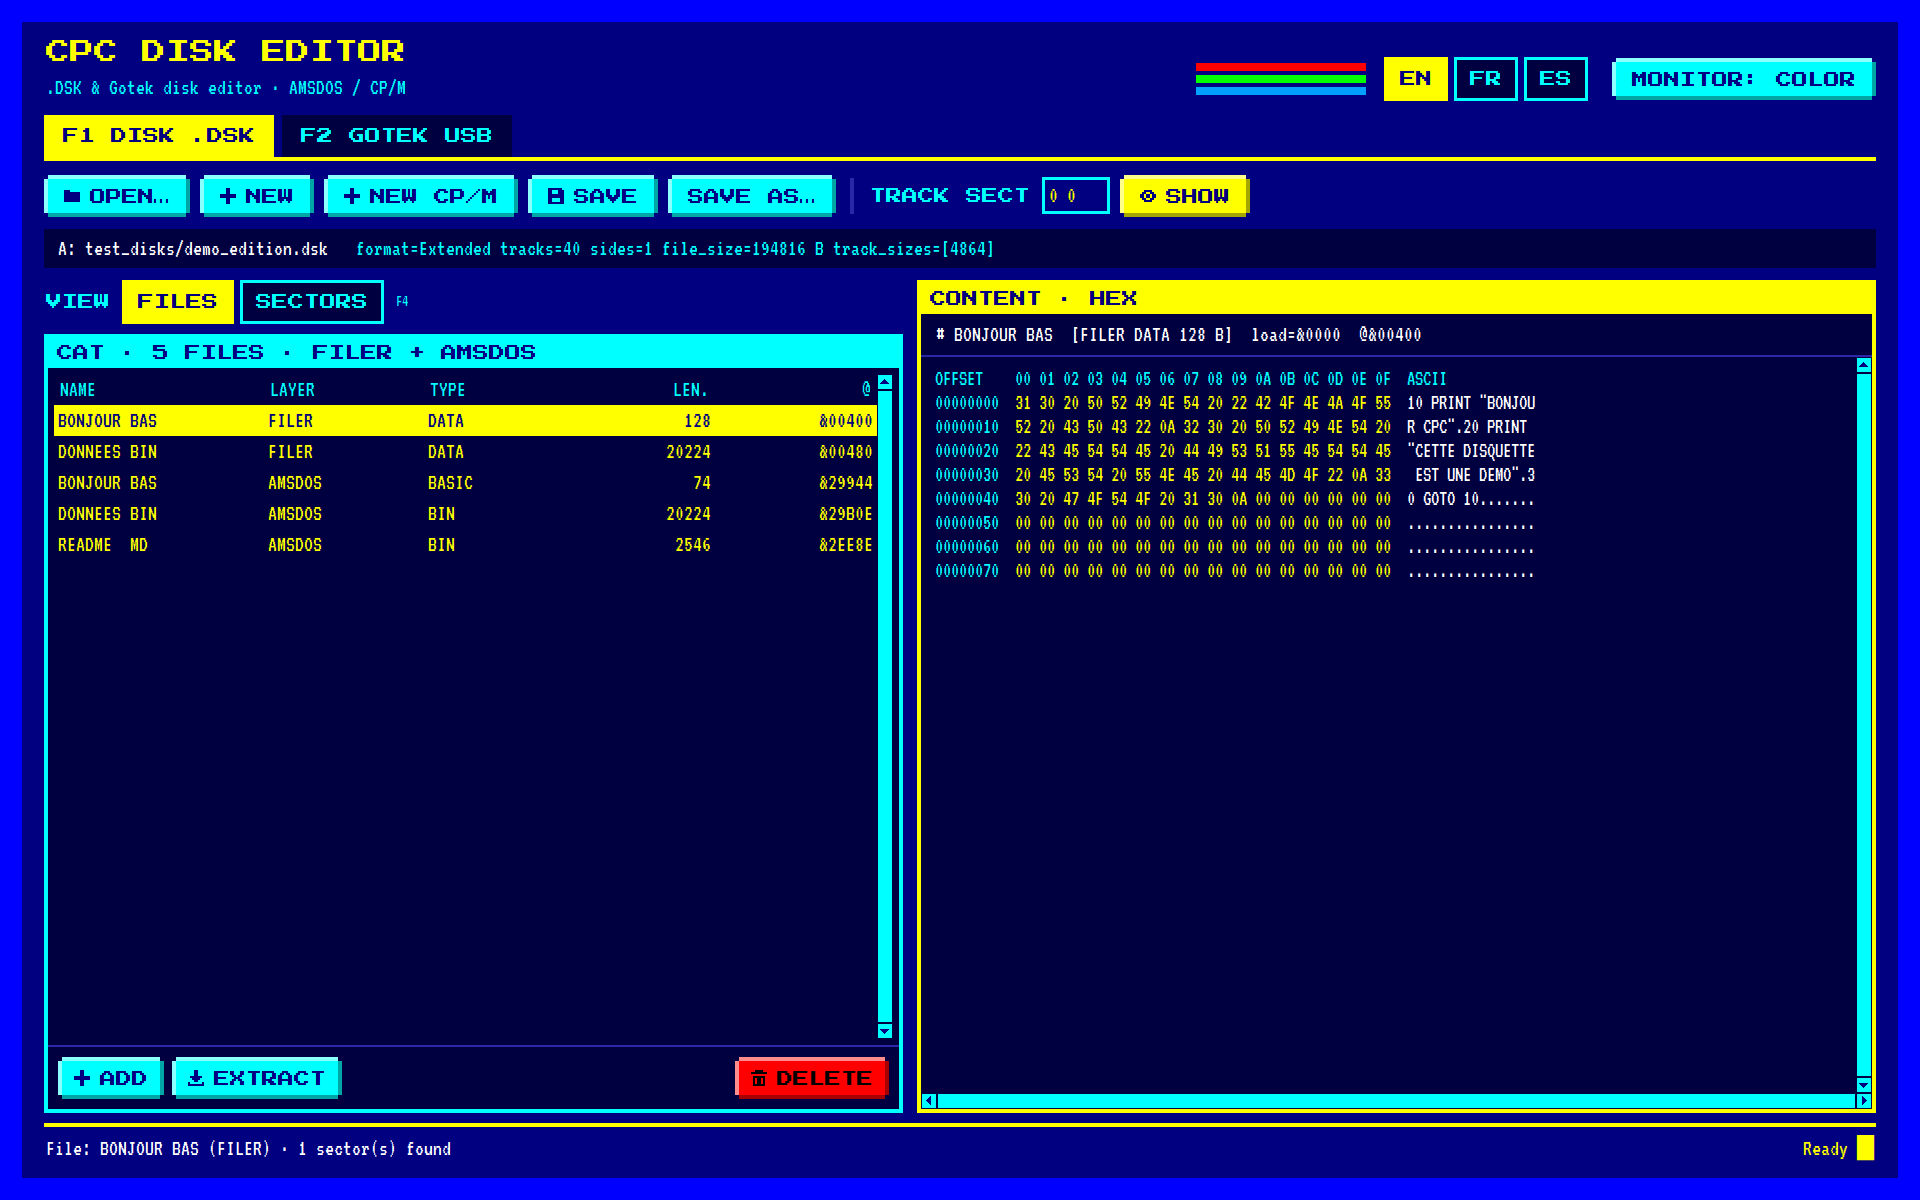
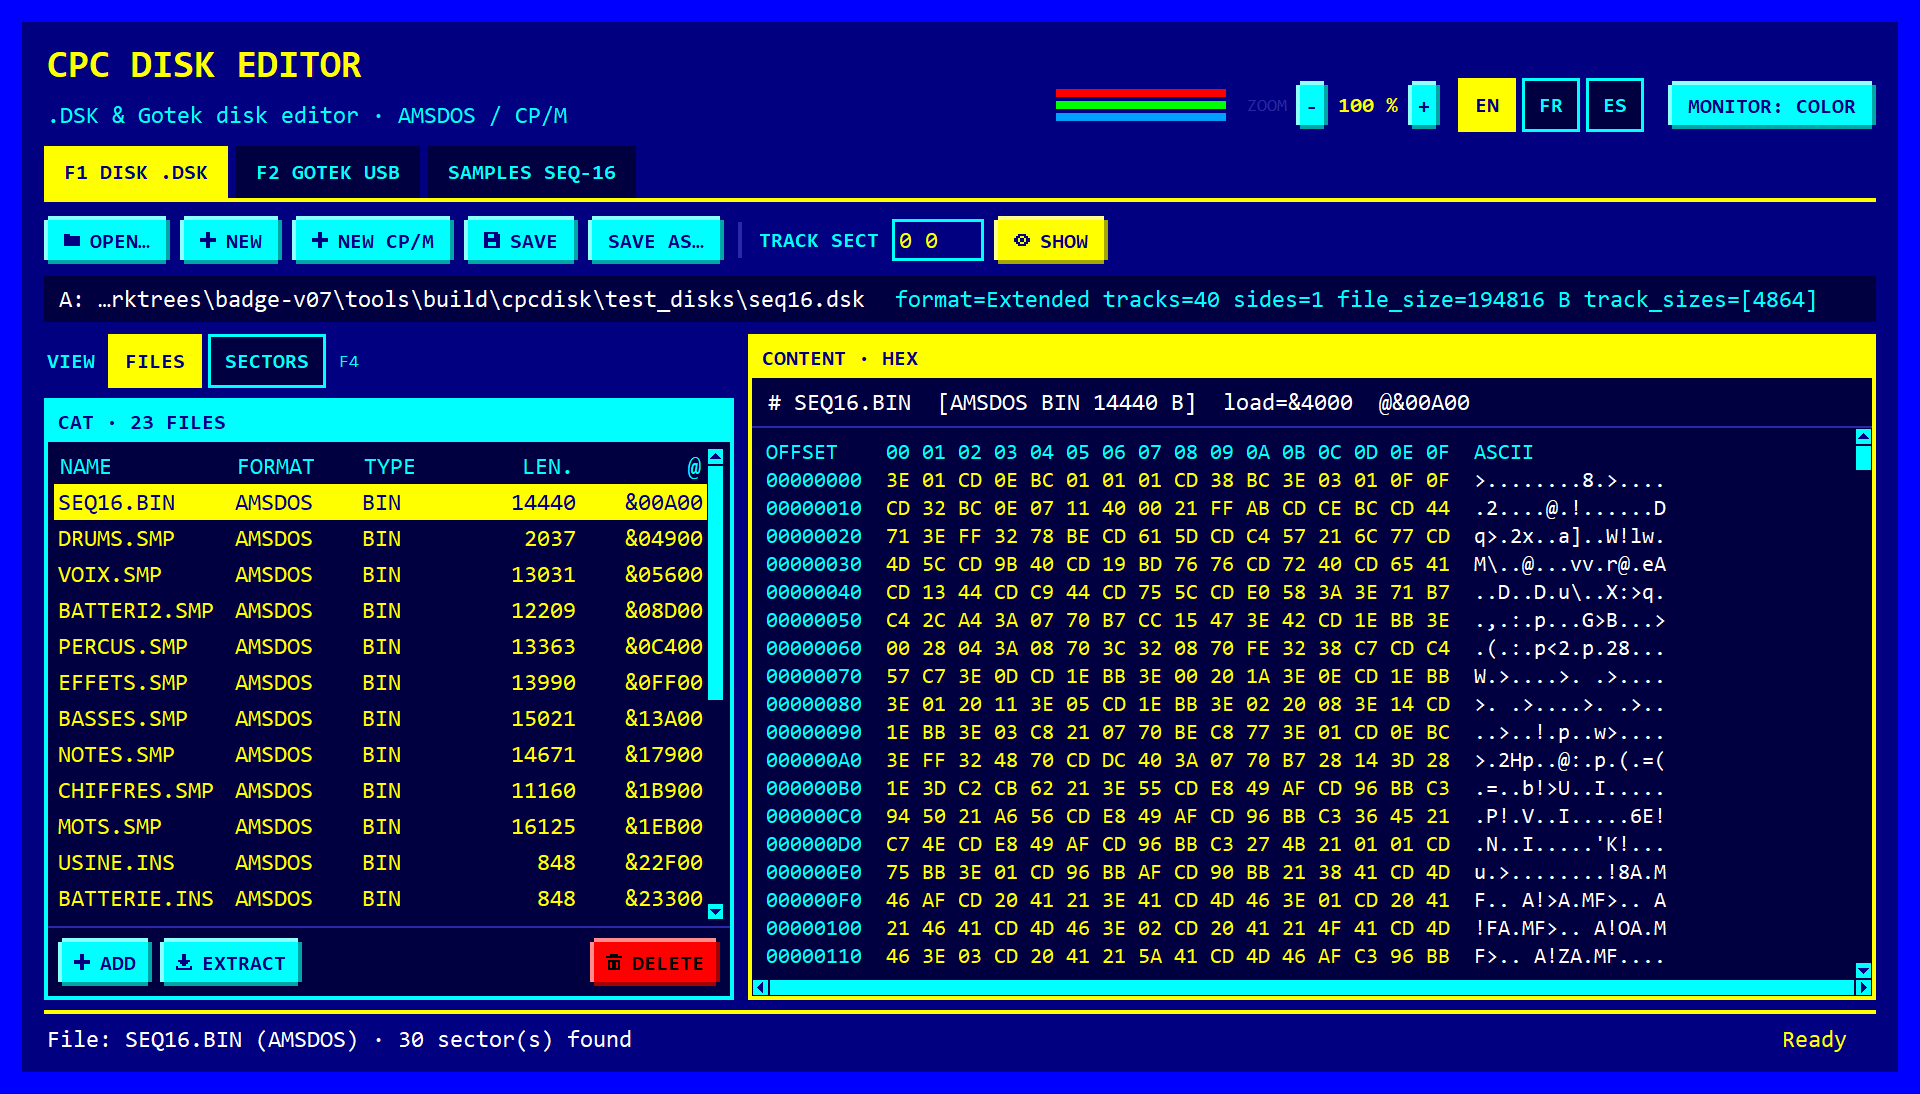
Captures d'écran refaites (fr, en, es) ; libellés et colonnes corrigés
- docs/ : onglets Disquette, Gotek (avec le bloc HxC) et Samples SEQ-16,
  dans les trois langues ; l'onglet Samples a sa capture dans les README.
- Catalogue : « CAT · n FICHIERS » sans l'ancien « FILER + AMSDOS », la
  colonne « COUCHE » devient « FORMAT ».
- Dossier HxC : le libellé montre la fin du chemin (…\CPC-DISK\HXC) au
  lieu d'un début tronqué.
- Onglet Samples : largeurs des colonnes mesurées sur la police (elles
  suivent le zoom et le DPI) ; « 10 000 » et « 12 500 » n'étaient plus
  coupés.

diff --git a/cpc_dsk/i18n.py b/cpc_dsk/i18n.py
@@ -92,10 +92,10 @@ TR: Dict[str, Dict[str, str]] = {
         "view_files": "Files",
         "view_map": "Sectors",
         "panel_map": "Sector map",
-        "panel_cat0": "CAT · FILER + AMSDOS",
-        "panel_cat_n": "CAT · {n} FILE{s} · FILER + AMSDOS",
+        "panel_cat0": "CAT",
+        "panel_cat_n": "CAT · {n} FILE{s}",
         "col_name": "NAME",
-        "col_layer": "LAYER",
+        "col_layer": "FORMAT",
         "col_type": "TYPE",
         "col_len": "LEN.",
         "btn_add": "Add",
@@ -487,10 +487,10 @@ TR: Dict[str, Dict[str, str]] = {
         "view_files": "Fichiers",
         "view_map": "Secteurs",
         "panel_map": "Carte des secteurs",
-        "panel_cat0": "CAT · FILER + AMSDOS",
-        "panel_cat_n": "CAT · {n} FICHIER{s} · FILER + AMSDOS",
+        "panel_cat0": "CAT",
+        "panel_cat_n": "CAT · {n} FICHIER{s}",
         "col_name": "NOM",
-        "col_layer": "COUCHE",
+        "col_layer": "FORMAT",
         "col_type": "TYPE",
         "col_len": "LONG.",
         "btn_add": "Ajouter",
@@ -886,10 +886,10 @@ TR: Dict[str, Dict[str, str]] = {
         "view_files": "Archivos",
         "view_map": "Sectores",
         "panel_map": "Mapa de sectores",
-        "panel_cat0": "CAT · FILER + AMSDOS",
-        "panel_cat_n": "CAT · {n} ARCHIVO{s} · FILER + AMSDOS",
+        "panel_cat0": "CAT",
+        "panel_cat_n": "CAT · {n} ARCHIVO{s}",
         "col_name": "NOMBRE",
-        "col_layer": "CAPA",
+        "col_layer": "FORMATO",
         "col_type": "TIPO",
         "col_len": "LEN.",
         "btn_add": "Añadir",

diff --git a/cpc_dsk/seq16/smp_gui.py b/cpc_dsk/seq16/smp_gui.py
@@ -882,10 +882,20 @@ class SmpApp:
                     command=self.open_smp).pack(side="left", padx=(8, 0))
 
         # La liste
-        cols = (("n", L("smp_col_n"), 34, "e"), ("nom", L("smp_col_name"), 78, "w"),
-                ("duree", L("smp_col_dur"), 72, "e"), ("hz", L("smp_col_hz"), 70, "e"),
-                ("nop", L("smp_col_nop"), 44, "e"), ("oct", L("smp_col_bytes"), 70, "e"),
-                ("src", L("smp_col_src"), 120, "w"))
+        # Largeurs mesurées sur le contenu le plus large de chaque colonne
+        # (et son titre) : elles suivent la police, donc le zoom et le DPI.
+        widest = {"n": "16", "nom": "MMMMMM", "duree": "10,00", "hz": "12 500",
+                  "nop": "999", "oct": "16 320", "src": "(banque .SMP)"}
+
+        def width(key, title):
+            return max(self.f_body.measure(widest[key]),
+                       self.f_small.measure(title)) + round(14 * self.scale)
+        cols = [(key, L(lbl), anchor) for key, lbl, anchor in (
+            ("n", "smp_col_n", "e"), ("nom", "smp_col_name", "w"),
+            ("duree", "smp_col_dur", "e"), ("hz", "smp_col_hz", "e"),
+            ("nop", "smp_col_nop", "e"), ("oct", "smp_col_bytes", "e"),
+            ("src", "smp_col_src", "w"))]
+        cols = [(key, title, width(key, title), anchor) for key, title, anchor in cols]
         frame = tk.Frame(body, bg=t.panel, padx=6, pady=6)
         frame.pack(side="top", fill="both", expand=True)
         self.tree = ttk.Treeview(frame, style="Smp.Treeview", show="headings",

diff --git a/cpc_dsk/gui.py b/cpc_dsk/gui.py
@@ -155,6 +155,24 @@ def _fmt_size(n: int) -> str:
     return f"{n} {L('sz_b')}"
 
 
+def _short_folder(path: str, width: int = 28) -> str:
+    """Fin d'un chemin, coupée à des séparateurs : « …\\CPC-DISK\\HXC ».
+
+    Le libellé n'a la place que d'une trentaine de caractères ; c'est la
+    fin du chemin (le dossier lui-même) qui compte."""
+    if len(path) <= width:
+        return path
+    parts = path.replace("/", os.sep).rstrip(os.sep).split(os.sep)
+    tail = parts[-1]
+    for part in reversed(parts[:-1]):
+        if len(part) + 1 + len(tail) + 2 > width:
+            break
+        tail = part + os.sep + tail
+    if len(tail) + 1 > width:
+        tail = tail[-(width - 1):]
+    return "…" + os.sep + tail if not tail.startswith(os.sep) else "…" + tail
+
+
 def _suggest_83(path: str) -> str:
     """Nom 8.3 suggéré à partir d'un nom de fichier local.
 
@@ -2059,8 +2077,7 @@ class DskEditorApp:
     def _hxc_refresh_folder(self) -> None:
         folder = self._hxc_folder()
         if folder:
-            shown = folder if len(folder) <= 46 else "…" + folder[-45:]
-            self.hxc_folder_lbl.config(text=shown, fg=self.t.hi)
+            self.hxc_folder_lbl.config(text=_short_folder(folder), fg=self.t.hi)
         else:
             self.hxc_folder_lbl.config(text=L("hxc_notfound"),
                                        fg=self.t.danger)

diff --git a/tests/test_gui_hxc.py b/tests/test_gui_hxc.py
@@ -176,3 +176,14 @@ def test_hxc_image(app, tmp_path):
     assert "Rufus" in info.call_args[0][1]
     assert {f.name for f in list_fat_image(out)} == {
         "AUTOBOOT.HFE", "HXCSDFE.CFG", "JEU.DSK"}
+
+
+def test_short_folder_keeps_the_end():
+    """Le libellé du dossier HxC montre la fin du chemin, pas le début."""
+    from cpc_dsk.gui import _short_folder
+    p = os.sep.join(["", "home", "moi", "Qsync", "_Travail", "_Workspace",
+                     "_Codes", "CPC-DISK", "HXC"])
+    s = _short_folder(p)
+    assert s.startswith("…") and s.endswith(os.sep.join(["CPC-DISK", "HXC"]))
+    assert len(s) <= 28
+    assert _short_folder(os.sep.join(["", "a", "HXC"])) == os.sep.join(["", "a", "HXC"])

diff --git a/README.fr.md b/README.fr.md
@@ -76,6 +76,8 @@ Une interface au look « écran CPC », en pur Python, sans aucune dépendance e
 
 ### Onglet Samples SEQ-16
 
+![CPC Disk Editor — onglet Samples SEQ-16](docs/screenshot-samples.png)
+
 Un éditeur de banques de samples pour **[SEQ-16](https://github.com/ChristopheCruz/CPC-SEQ-16)**, le tracker chiptune 4 voix du CPC (en français, anglais et espagnol), intégré en troisième onglet (il se lance aussi seul : `python -m cpc_dsk.seq16.smp_gui`).
 
 - **WAV → banque `.SMP`** : 16 samples au plus, convertis sur les 16 niveaux de volume mesurés de l'AY-3-8912. Réglages de chaque sample : nom, fréquence (4 000 à 16 000 Hz, ou la période en NOP), bits, décimation, courbe, drive, trim, clean, tramage, découpage en N tranches égales. Une banque `.SMP` existante se rouvre (réglages de fiche seulement).

diff --git a/README.md b/README.md
@@ -78,6 +78,8 @@ A "CPC screen"-looking interface, in pure Python, with no external dependencies.
 
 ### Samples SEQ-16 tab
 
+![CPC Disk Editor — Samples SEQ-16 tab](docs/screenshot-samples-en.png)
+
 A sample-bank editor for **[SEQ-16](https://github.com/ChristopheCruz/CPC-SEQ-16)**, the 4-voice chiptune tracker for the CPC (in English, French and Spanish), built in as a third tab (also runs on its own: `python -m cpc_dsk.seq16.smp_gui`).
 
 - **WAV → `.SMP` bank**: up to 16 samples, converted to the AY-3-8912's 16 measured volume levels. Per-sample settings: name, frequency (4,000 to 16,000 Hz, or the period in NOP), bits, decimation, curve, drive, trim, clean, dither, slicing into N equal parts. Existing `.SMP` banks can be reopened (entry settings only).
